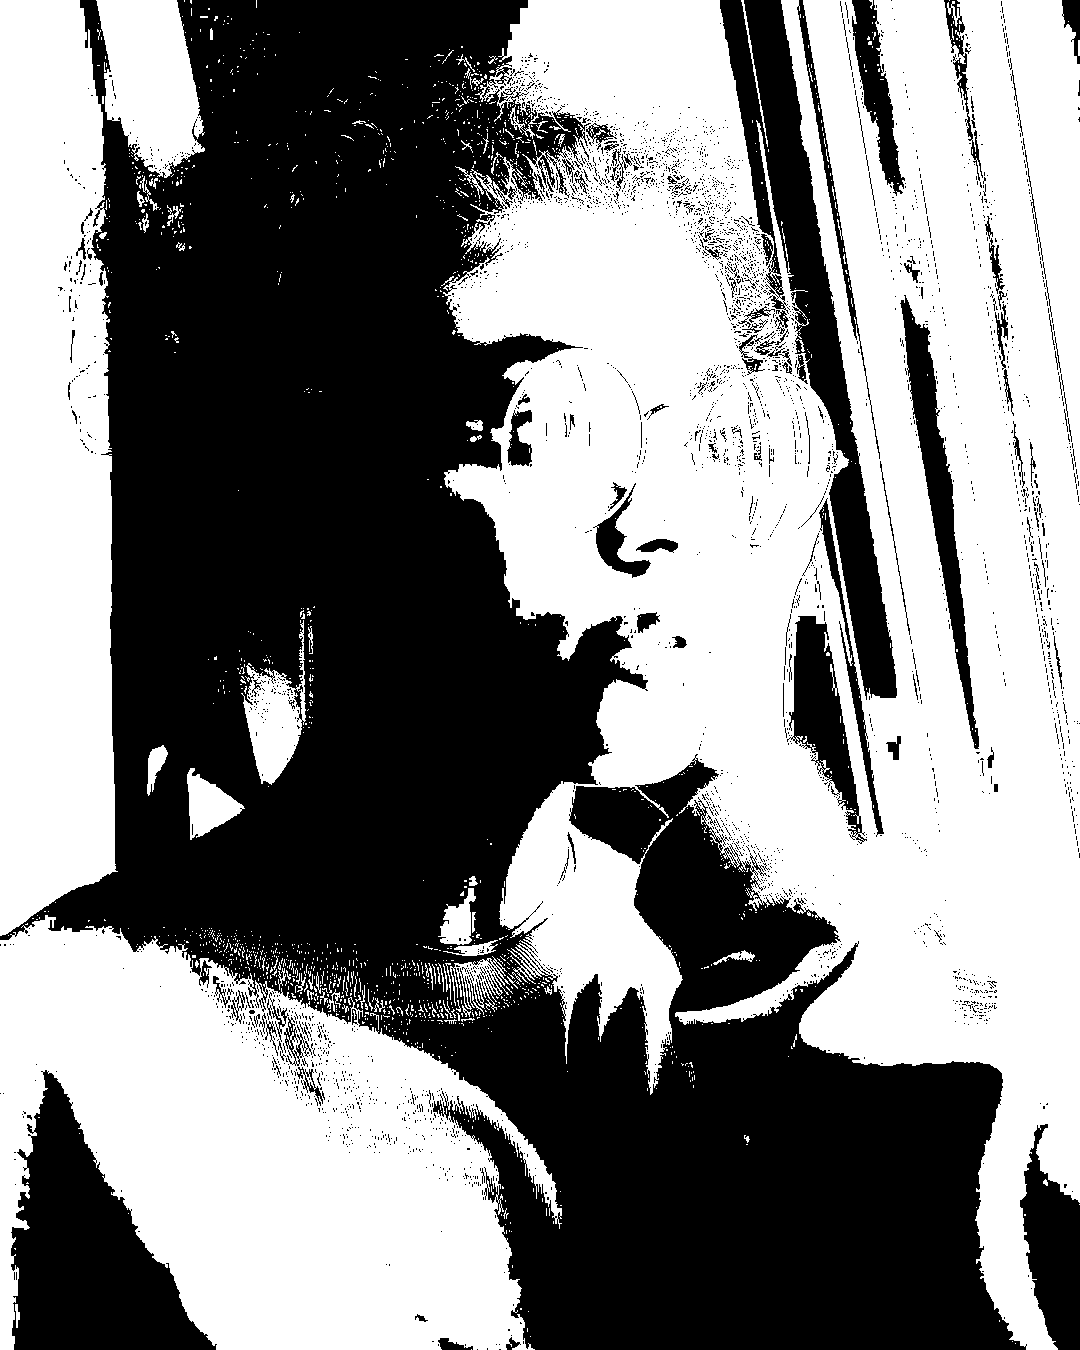
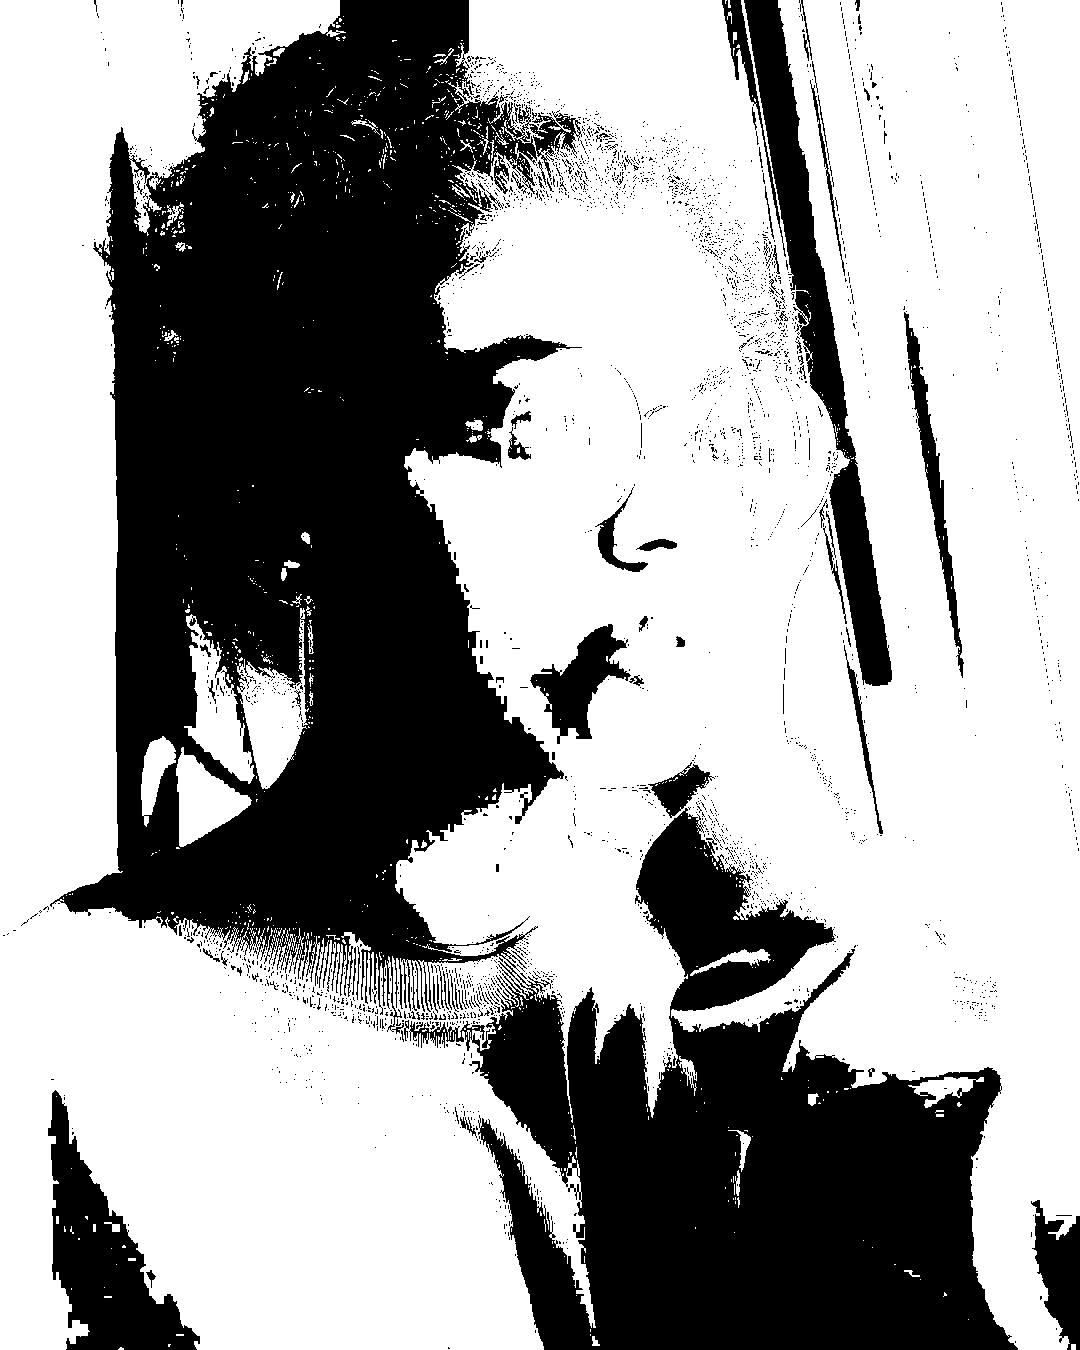
made it so the bnw image is part of the pixelsorting obj

diff --git a/pixelSorter.java b/pixelSorter.java
@@ -16,25 +16,80 @@ import javax.imageio.ImageIO;
 
 public class pixelSorter {
 	int BLACK = -16777216;
-	int threshhold;
 	String filename;
-	BufferedImage imgBnW = imageToBnW(filename, threshhold);
-
-	public pixelSorter(String File){
+	File f, fBnW;
+	BufferedImage img = null;
+	BufferedImage imgBnW = null;
+	
+	public pixelSorter(String File, int threshhold){
 		filename = File;
+		try{
+		f = new File("/home/nokken/templ/JavaLearning/PixelSorting/images/" + filename);
+		img = ImageIO.read(f);
+		}catch(IOException e){
+			System.out.println(e);
+		}
+		imgBnW = thresholdImage(img, threshhold);
 	}
-	public static void main(String args[])
-		throws IOException
+	public static void main(String args[]) throws IOException
 	{	
-		String fileName = "image.jpg";
-		pixelSorter l = new pixelSorter("image.jpg");
+		// String fileName = "image.jpg";
+		pixelSorter l = new pixelSorter("coolpic.jpg", 100);
 		// l.imageToBnW(Filename, 25);
 		// l.imgToColum(fileName, l, 70);
 		// l.imgToRow(fileName, l, 70);
-	  l.imgToRowInterval(fileName, l, 50);
+	  	// l.imgToRowInterval("image.jpg", l, 50);
+		l.imgToRowIntervalTest(l);
 
 	} // main() ends here
+	public void imgToRowIntervalTest(pixelSorter l){
+		BufferedImage img = l.img, imgBW = l.imgBnW;
 
+		int imgHeight = img.getHeight(), imgWidth = img.getWidth();
+		int[] imgRGB = new int[imgWidth];
+		int startPos = 0, endPos;
+		int rowIdx;
+		boolean startPosSet = false;
+
+		
+		for(int j = 0; j < imgHeight; j++){
+			rowIdx = 0;
+			while(rowIdx < imgWidth ){
+				imgRGB[rowIdx] = (img.getRGB(rowIdx, j));
+				if(imgBW.getRGB(rowIdx,j) != BLACK && startPosSet == false ){
+					startPos = rowIdx;
+					startPosSet = true;
+				}
+				else if(imgBW.getRGB(rowIdx,j) == BLACK && startPosSet == true && startPos != imgWidth - 1 ){
+					endPos = rowIdx - 1;
+
+					Arrays.sort(imgRGB, startPos, endPos);
+					startPosSet = false;
+					
+				}
+				// used for edge case when the end if the row is reached without setting an end position
+				else if(rowIdx == imgWidth -1){
+					endPos = rowIdx;
+					Arrays.sort(imgRGB, startPos, endPos);
+					startPosSet = false;
+				}		
+				rowIdx++;
+			}
+			// set image to the sorted row
+			for(int i = 0; i < img.getWidth(); i++){
+				img.setRGB(i, j, imgRGB[i]);
+			}
+		}
+
+		// output image
+		try{
+			f = new File("/home/nokken/templ/JavaLearning/PixelSorting/outputs/Output_Row_Interval_TESTOBJ_"+ l.filename);
+			ImageIO.write(img, "jpg", f);
+		  }catch(IOException e){
+			System.out.println(e);
+		  }
+
+	}
 	/*
 	 * Input: Filename, pixelSorter object, int threshhold for BnW images
 	 * Output: A distorted image that has its pixels sorted in seperate intervals between black and white pixels
@@ -214,7 +269,6 @@ public class pixelSorter {
 		  }
 
 	}
-	
 	public void sortINT(int arr[])
     {
         int n = arr.length;
@@ -295,6 +349,7 @@ public static BufferedImage thresholdImage(BufferedImage image, int threshold) {
         }  catch (IOException e) {
             e.printStackTrace();
         }
+		return null;
 		
 	}
 	public void bubbleSortImg(BufferedImage imgBW, BufferedImage img, int height, int width){
